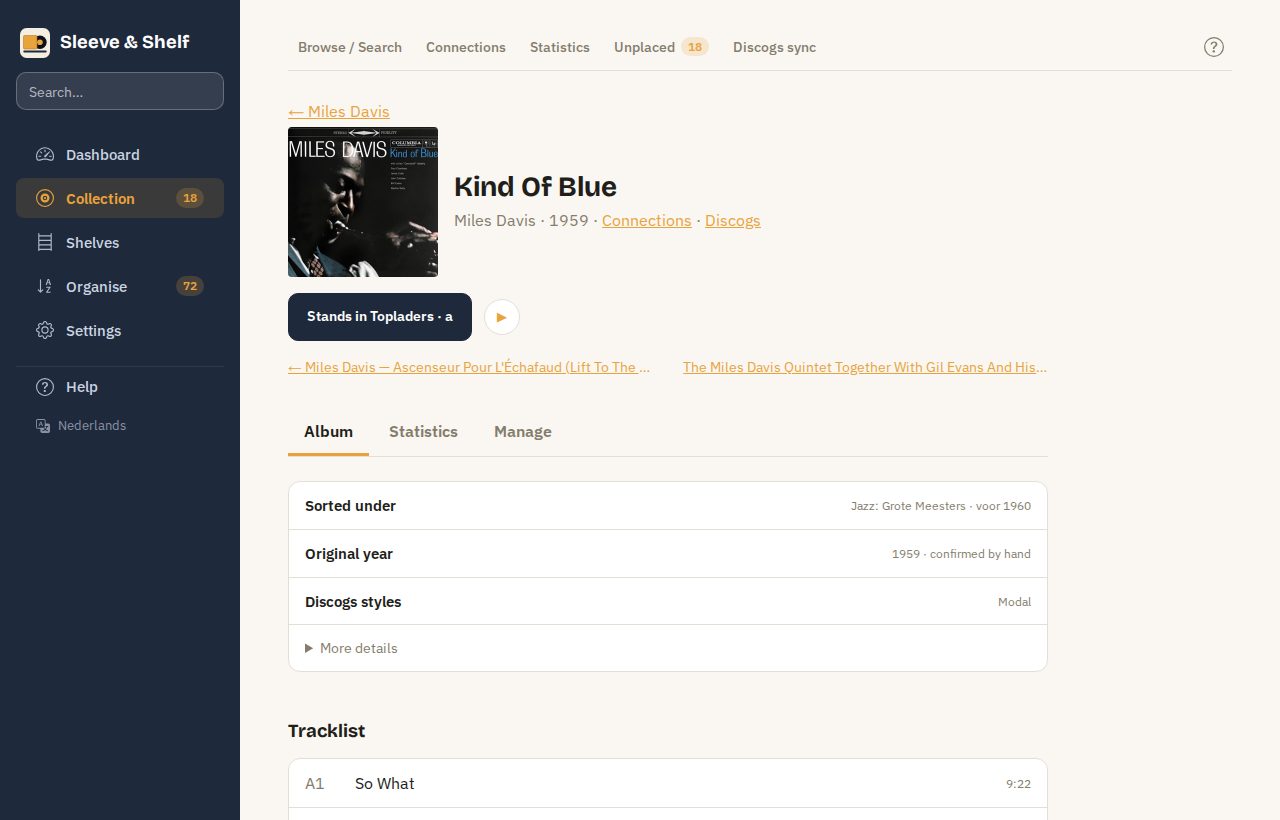
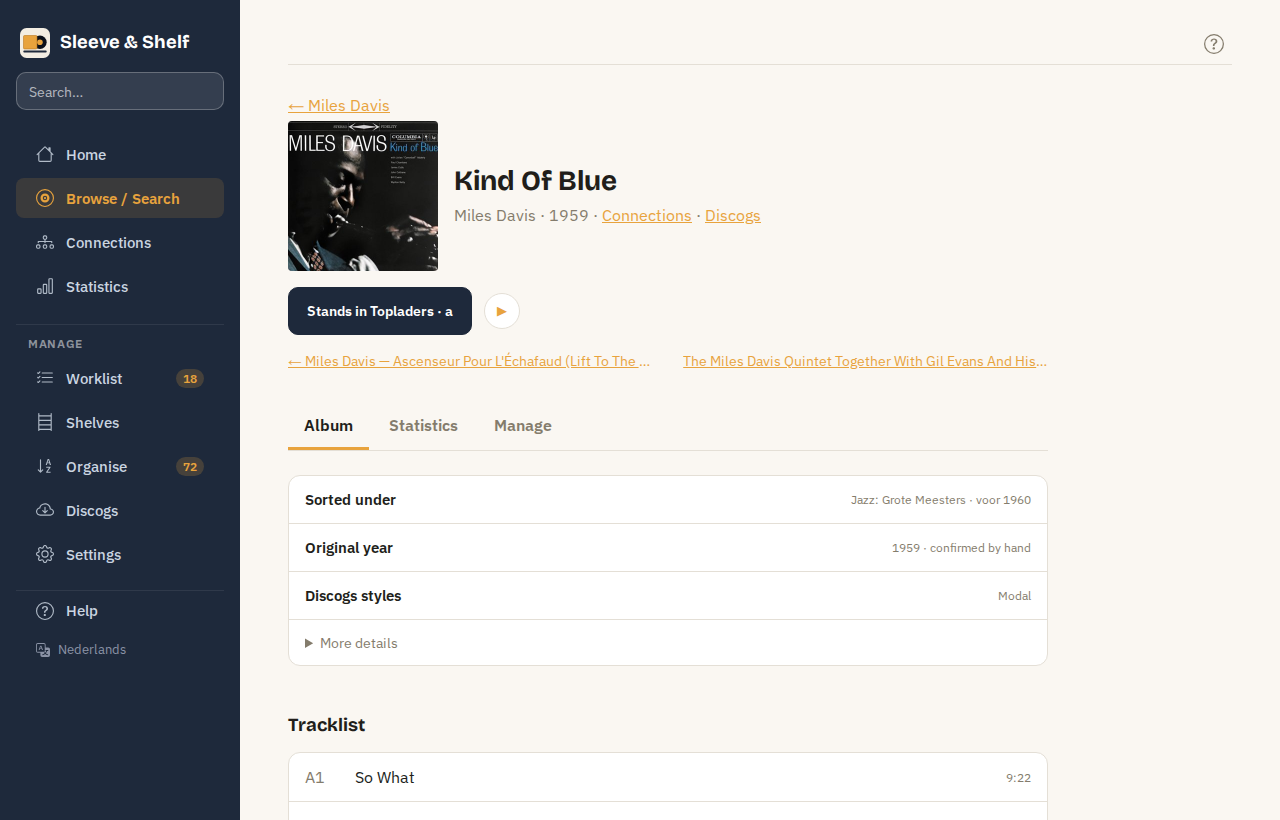
Split the menu into looking things up and managing the collection
The menu now has two blocks: Home, Browse / Search, Connections and Statistics for looking things up and finding something to play, then under a Manage heading the Worklist (the Dashboard and Unplaced albums), Shelves, Organise, Discogs and Settings. Visitors see only the first block. Collection is gone: its screens for looking up became sections of their own, Unplaced moved to the Worklist and the Discogs sync to a section of its own. New icons come from Bootstrap Icons as before, the user guide describes the new menu and shows Home, and its screenshots were taken again.

diff --git a/src/sleeve_shelf/web/templates/base.html b/src/sleeve_shelf/web/templates/base.html
@@ -41,6 +41,10 @@
     <nav id="main-nav" class="ss-nav collapse d-lg-flex">
       {% block nav %}
       {% for section in nav_sections %}
+      {# The upkeep stands apart from looking things up, under a heading of its own. #}
+      {% if section.block == 'manage' and (loop.first or loop.previtem.block != 'manage') %}
+      <div class="ss-nav-block" role="presentation">{{ _('Manage') }}</div>
+      {% endif %}
       {% set count = section_count(section, menu_counts) %}
       <a href="{{ url_for(section.tabs[0].endpoint) }}" class="{{ 'active' if section == nav_section }}">
         <svg class="ss-nav-icon" width="18" height="18" aria-hidden="true"><use href="{{ url_for('static', filename='vendor/menu-icons.svg') }}#{{ section.key }}"></use></svg>

diff --git a/src/sleeve_shelf/web/static/app.css b/src/sleeve_shelf/web/static/app.css
@@ -96,6 +96,8 @@ h2 { font-size: 1.15rem; margin: 0; }
 
 .ss-nav a:hover { color: #fff; }
 .ss-nav a { gap: 12px; }
+/* The upkeep stands apart from looking things up, under a quiet heading. */
+.ss-nav-block { margin: 14px 0 2px; padding: 10px 12px 0; border-top: 1px solid rgba(255, 255, 255, 0.08); color: rgba(255, 255, 255, 0.5); font-size: 0.72rem; font-weight: 600; letter-spacing: 0.06em; text-transform: uppercase; }
 /* Help sits apart from the sections, at the end of the menu. */
 .ss-nav a.ss-nav-help { margin-top: 12px; border-top: 1px solid rgba(255, 255, 255, 0.08); border-radius: 0 0 8px 8px; }
 /* Icon, name, and the count pushed to the end. The icon takes the colour of the text. */

diff --git a/src/sleeve_shelf/web/navigation.py b/src/sleeve_shelf/web/navigation.py
@@ -25,6 +25,11 @@ class Tab:
     help: str | None = None
 
 
+# The two blocks of the menu: looking things up, and keeping the collection up to date.
+LOOK_UP = "look up"
+MANAGE = "manage"
+
+
 @dataclass(frozen=True)
 class Section:
     """A section of the menu.
@@ -35,6 +40,7 @@ class Section:
         tabs: Its tabs.
         other_pages: Pages that belong to the section without having a tab of their own.
         help: Where the user guide explains it.
+        block: The block of the menu it stands in: LOOK_UP or MANAGE.
     """
 
     key: str
@@ -42,24 +48,41 @@ class Section:
     tabs: tuple[Tab, ...]
     other_pages: tuple[str, ...] = ()
     help: str | None = None
+    block: str = LOOK_UP
 
 
+# Looking up and finding something to play, then the upkeep of the collection (decided by Mark
+# 2026-11-07); a visitor sees only the first block.
 SECTIONS = (
     Section("home", _("Home"), (Tab("home.index", _("Home"), ("home",), help="user/#home"),)),
-    Section("overview", _("Dashboard"), (Tab("dashboard.index", _("Dashboard"), ("dashboard",), help="user/#a-typical-round"),)),
     Section(
-        "collection",
-        _("Collection"),
-        (
-            Tab("browse.browse", _("Browse / Search"), ("browse.browse",), help="user/browsing/#browse-and-search"),
-            Tab("connections.index", _("Connections"), ("connections",), help="user/connections/#connections"),
-            Tab("stats.index", _("Statistics"), ("stats",), help="user/connections/#statistics"),
-            Tab("browse.unplaced", _("Unplaced"), ("browse.unplaced",), "unplaced", "user/browsing/#albums-without-a-place"),
-            Tab("discogs.index", _("Discogs sync"), ("discogs", "setup"), "discogs", "user/discogs/"),
-        ),
-        # An album's page is reached from Browse and from the unplaced albums.
+        "browse",
+        _("Browse / Search"),
+        (Tab("browse.browse", _("Browse / Search"), ("browse.browse",), help="user/browsing/#browse-and-search"),),
+        # An album's page is reached from Browse more than from anywhere else.
         other_pages=("albums.detail",),
         help="user/albums-and-artists/#an-albums-page",
+    ),
+    Section(
+        "connections",
+        _("Connections"),
+        (Tab("connections.index", _("Connections"), ("connections",), help="user/connections/#connections"),),
+    ),
+    Section("stats", _("Statistics"), (Tab("stats.index", _("Statistics"), ("stats",), help="user/connections/#statistics"),)),
+    Section(
+        "worklist",
+        _("Worklist"),
+        (
+            Tab("dashboard.index", _("Dashboard"), ("dashboard",), help="user/#a-typical-round"),
+            Tab(
+                "browse.unplaced",
+                _("Unplaced"),
+                ("browse.unplaced", "browse.place_all"),
+                "unplaced",
+                "user/browsing/#albums-without-a-place",
+            ),
+        ),
+        block=MANAGE,
     ),
     Section(
         "shelves",
@@ -72,6 +95,7 @@ SECTIONS = (
             Tab("versions.index", _("Versions"), ("versions",), help="user/shelves/#versions"),
             Tab("storage.index", _("Cabinets"), ("storage", "albums.widths"), "storage", "user/shelves/#cabinets-and-shelves"),
         ),
+        block=MANAGE,
     ),
     Section(
         "sorting",
@@ -83,8 +107,20 @@ SECTIONS = (
             Tab("clusters.index", _("Clusters"), ("clusters",), help="user/sorting/#clusters"),
             Tab("rules.index", _("Rules"), ("rules",), "rules", "user/sorting/#location-rules"),
         ),
+        block=MANAGE,
     ),
-    Section("settings", _("Settings"), (Tab("settings.index", _("Settings"), ("settings",), help="user/settings/#settings"),)),
+    Section(
+        "discogs",
+        _("Discogs"),
+        (Tab("discogs.index", _("Discogs sync"), ("discogs", "setup"), "discogs", "user/discogs/"),),
+        block=MANAGE,
+    ),
+    Section(
+        "settings",
+        _("Settings"),
+        (Tab("settings.index", _("Settings"), ("settings",), help="user/settings/#settings"),),
+        block=MANAGE,
+    ),
 )
 
 

diff --git a/tests/test_web.py b/tests/test_web.py
@@ -398,23 +398,30 @@ def test_menu_has_its_sections_and_tabs_that_count_what_is_waiting(client):
     page = client.get("/browse").text
 
     menu = page[page.index('id="main-nav"'):page.index("</nav>")]
-    sections = ["Home", "Dashboard", "Collection", "Shelves", "Organise", "Settings"]
-    assert [menu.index(f"<span>{name}</span>") for name in sections] == sorted(
-        menu.index(f"<span>{name}</span>") for name in sections
-    )
-    # Six sections, and Help apart at the end.
-    assert menu.count("<a ") == 7 and menu.rindex("<span>Help</span>") > menu.index("<span>Settings</span>")
-    # Browse belongs to Collection: that section is marked, and its screens are the tabs.
-    collection = menu[menu.rindex("<a ", 0, menu.index("<span>Collection</span>")):]
-    assert 'class="active"' in collection[: collection.index("</a>")]
-    # One LP has no place: Collection says so, and so does the tab it is on.
-    assert 'title="Waiting for you">1</span>' in collection[: collection.index("</a>")]
-    tabs = page[page.index('class="ss-section-tabs"'):]
+    looking_up = ["Home", "Browse / Search", "Connections", "Statistics"]
+    upkeep = ["Worklist", "Shelves", "Organise", "Discogs", "Settings"]
+    places = [menu.index(f"<span>{name}</span>") for name in looking_up + upkeep]
+    assert places == sorted(places)
+    # Looking things up first, then the upkeep under a heading of its own, and Help at the end.
+    heading = menu.index('class="ss-nav-block"')
+    assert menu.index("<span>Statistics</span>") < heading < menu.index("<span>Worklist</span>")
+    assert menu.count("<a ") == 10 and menu.rindex("<span>Help</span>") > menu.index("<span>Settings</span>")
+
+    def item(name):
+        start = menu.rindex("<a ", 0, menu.index(f"<span>{name}</span>"))
+        return menu[start : menu.index("</a>", start)]
+
+    # Browse is marked, and a section of one screen has no tabs.
+    assert 'class="active"' in item("Browse / Search")
+    assert 'class="ss-section-tabs"' not in page
+    # One LP has no place: the Worklist says so, and so does its tab.
+    assert 'title="Waiting for you">1</span>' in item("Worklist")
+    unplaced_page = client.get("/unplaced").text
+    tabs = unplaced_page[unplaced_page.index('class="ss-section-tabs"'):]
     tabs = tabs[: tabs.index("</nav>")]
-    assert ["Browse / Search" in tabs, "Unplaced" in tabs, "Discogs sync" in tabs] == [True] * 3
+    assert "Dashboard" in tabs and "Unplaced" in tabs
     unplaced = tabs[tabs.index("Unplaced"):]
     assert '<span class="ss-nav-count">1</span>' in unplaced[: unplaced.index("</a>")]
-    assert 'aria-current="page"' in tabs[: tabs.index("Unplaced")]
 
     # The other sections show their own screens as tabs.
     assert "Cabinets" in client.get("/layout/").text.split('class="ss-section-tabs"')[1]

diff --git a/tests/test_access.py b/tests/test_access.py
@@ -74,10 +74,14 @@ def test_a_visitor_may_look_the_collection_up_and_nothing_more(app):
     assert visitor.post("/settings/password", data={"action": "remove"}).status_code == 403
     assert has_password(app.config["DATA_DIR"])
 
-    # What a visitor sees: Browse and Help in the menu, no actions on the pages.
+    # What a visitor sees: the block for looking things up and Help in the menu, without the
+    # upkeep or its heading, and no actions on the pages.
     browse = visitor.get("/browse").text
     menu = browse[browse.index('id="main-nav"'):browse.index("</nav>")]
-    assert "<span>Collection</span>" in menu and "<span>Shelves</span>" not in menu and "Log in" in menu
+    for name in ("Home", "Browse / Search", "Connections", "Statistics"):
+        assert f"<span>{name}</span>" in menu, name
+    assert "<span>Worklist</span>" not in menu and "<span>Shelves</span>" not in menu and "Log in" in menu
+    assert "ss-nav-block" not in menu
     assert "/unplaced" not in browse and "ss-nav-count" not in browse
     album = visitor.get("/albums/1").text
     assert 'id="listen"' in album and "/move/" not in album and "Measured width" not in album

diff --git a/docs-site/take_screenshots.py b/docs-site/take_screenshots.py
@@ -123,6 +123,7 @@ def main() -> None:
                     " localStorage.setItem('sleeve-shelf-browse-view', 'grid'); } catch (e) {}"
                 )
                 page = context.new_page()
+                _shoot(page, taken, "/", "home")
                 _shoot(page, taken, "/dashboard/", "dashboard")
                 _shoot(page, taken, "/browse", "browse")
                 _shoot(page, taken, f"/albums/{album.id}", "album")

diff --git a/docs/requirements.md b/docs/requirements.md
@@ -91,7 +91,7 @@ Everything the app needs to propose and maintain a layout itself. Builds on the 
 - Single-user application: one owner, who can change everything. **Visitors** may look the collection up, nothing more (see below)
 - **Visitors and the owner's login** (decided and built 2026-10-16). A visitor without a login can search and browse the collection, open an album's and an artist's page to read them, listen (Deezer previews, Discogs videos), and read the user guide. Everything else — every change, and every other screen — needs the owner's login:
   - **Closed unless listed**: one list in the app names what a visitor may open, and only to read (GET): Home and Statistics (2026-11-07), Browse/Search, Connections (2026-10-26), the album and artist pages, the previews, the help, covers, and the app's own files. Any other screen, and anything added later, asks for the login; a visitor's change is refused
-  - **What a visitor sees**: the menu holds only Home (2026-11-07), Collection (Browse / Search, Connections since 2026-10-26, and Statistics since 2026-11-07) and Help; the album and artist pages leave out their actions (moving, location rules, width, own picture, *Put it there*, *Not this album*). Layout, Showcase, and the other screens are the owner's only
+  - **What a visitor sees**: the menu holds only the block for looking things up — Home, Browse / Search, Connections (since 2026-10-26) and Statistics (since 2026-11-07) — and Help; the album and artist pages leave out their actions (moving, location rules, width, own picture, *Put it there*, *Not this album*). Layout, Showcase, and the other screens are the owner's only
   - **Listening by a visitor is allowed**, though the first listen to an album keeps what Deezer found in `listening.json` — the only thing a visitor writes, and harmless
   - **The login**: a page asking for a password only, as there is one owner. The password is stored hashed; it is set with a command (`set-password`) and changed under Settings. Logged in, a device stays logged in until the owner logs out. After a few failed attempts each next attempt waits longer
   - **Without a password the app stays open**, everyone being the owner, as before; Settings says so. Setting a password is what makes visitors visitors
@@ -532,16 +532,20 @@ The first thing a new installation does (Phase 1a): seed the collection and its 
 
 ### Main navigation (after the wizard)
 
-The menu has five sections (decided 2026-10-14): what is done daily on top, what is rarely touched at the bottom. A section opens on its first screen, and its screens are tabs above the page — on a phone they scroll sideways — so the menu itself stays five lines. On a phone the tabs scroll sideways; the current tab is brought into view and an edge fades where more tabs are out of sight (2026-10-16). Each section has an icon before its name (decided 2026-10-15): a speedometer for Dashboard, a record for Collection, a bookshelf for Shelves, an A–Z arrow for Sorting, a gear for Settings — from Bootstrap Icons, kept with the app. The name always stays; the tabs have no icons. A tab carries a short name, since the menu names the section and the page has its fuller title: Unplaced, Proposal, Cabinets, Families, Rules (decided 2026-10-15). A detail page belongs to the section it is reached from: an artist to Sorting, an album to Collection. All screens are built, except where a later phase is marked.
+The menu has two blocks (decided by Mark 2026-11-07): looking things up and finding something to play first, then the upkeep of the collection under a heading of its own, **Manage** (*Beheren*). A visitor sees only the first block. Before, it had five sections (decided 2026-10-14) — Dashboard, Collection, Shelves, Organise and Settings — ordered from what is done daily to what is rarely touched, which mixed the two: Collection held Browse beside Unplaced and the Discogs sync, and the app opened on the Dashboard. A section opens on its first screen, and its screens are tabs above the page; a section of one screen has none. On a phone the tabs scroll sideways; the current tab is brought into view and an edge fades where more tabs are out of sight (2026-10-16). Each section has an icon before its name (decided 2026-10-15; those of 2026-11-07 chosen without asking): a house for Home, a record for Browse / Search, a diagram for Connections, a bar chart for Statistics, a list with checks for the Worklist, a bookshelf for Shelves, an A–Z arrow for Organise, a cloud with an arrow for Discogs, a gear for Settings — from Bootstrap Icons, kept with the app. The name always stays; the tabs have no icons. A tab carries a short name, since the menu names the section and the page has its fuller title: Unplaced, Proposal, Cabinets, Families, Rules (decided 2026-10-15). A detail page belongs to the section it is reached from: an artist to Organise, an album to Browse / Search. All screens are built, except where a later phase is marked.
+
+Looking things up:
 
 - **Home** (decided by Mark 2026-11-07) — where the app opens, for the owner and visitors: looking up and something to play (see Home screen)
-- **Dashboard** — overview and open confirmations (see below)
-- **Collection** — the records themselves
-  - **Browse / Search** — crate-digging view of the collection, following the actual physical shelf order; search by artist and album (see Phase 1)
-  - **Statistics** (2026-10-30, decided by Mark) — who and what recurs across the collection (see Statistics screen)
-  - **Connections** — how the artists are tied together, as a network to move around in; around one artist, or the whole collection (see Connections screen, Phase 3)
+- **Browse / Search** — crate-digging view of the collection, following the actual physical shelf order; search by artist, album and song (see Phase 1)
+- **Connections** — how the artists are tied together, as a network to move around in; around one artist, or the whole collection (see Connections screen, Phase 3)
+- **Statistics** (2026-10-30, decided by Mark) — who and what recurs across the collection (see Statistics screen)
+
+Manage:
+
+- **Worklist** (*Werklijst*, 2026-11-07) — what waits for the owner
+  - **Dashboard** — overview and open confirmations (see below)
   - **Unplaced albums** — albums without a spot on a shelf (see Initial load), so they can be resolved rather than silently dropped. Each LP shows its suggested spot — the shelf, the albums it would stand between, and whether it fits — with a button to put it there; after that the page says where it now stands, with a link. An LP without a spot says why: the artist has no cluster yet, or nothing stands where it could go (see Sorting logic §4)
-  - **Discogs sync** — the Discogs screen: sync or import the collection, fetch styles and original years, confirm proposed matches (see below). Loading a layout workbook (see Initial load) is reached from the bottom of this screen
 - **Shelves** — the physical cabinets and what stands in them
   - **Layout** — core screen (see below)
   - **Move** — an album, artist, family or whole cluster to another shelf, or to where it belongs, with what changes shown first (see Move screen, below)
@@ -554,9 +558,11 @@ The menu has five sections (decided 2026-10-14): what is done daily on top, what
   - **Artist families** — the alias groups: accept or turn down suggested families, and manage them by hand (see below)
   - **Clusters** — the clusters in their order: reorder, rename, merge, and re-point styles (see below)
   - **Location rules** — bind a cluster, a family, an artist, or an album to a cabinet (see below)
+- **Discogs** (its own section since 2026-11-07)
+  - **Discogs sync** — the Discogs screen: sync or import the collection, fetch styles and original years, confirm proposed matches (see below). Loading a layout workbook (see Initial load) is reached from the bottom of this screen
 - **Settings** — edit `config.yaml`: the width-estimation constants, whether a bonus-disc bundle counts as vinyl, and the Discogs API token (masked, with a replace action); also the light/dark switch and the app's version (see below)
 
-**Help** (decided 2026-10-16): the documentation site (`docs-site/`, user guide and developer guide) is part of the app, under `/help/`. The Docker image builds it with Zensical and carries it, so the help belongs to the version that runs and works offline; without a built site — a local run — the help comes from GitHub Pages. *Help* at the end of the menu opens the user guide, and every screen has a **?** beside its tabs that opens the part of the user guide about that screen (Layout → *Layout*, Families → *Artist families*, an artist's page → *An artist's page*, …). Help opens in a window of its own, so the place in the app is kept. **Offline** (asked for by Mark 2026-11-04): the help fetches nothing from elsewhere — Mermaid and GLightbox come with the site and it uses the system's fonts instead of Inter from Google Fonts — so it works without a connection, and only the repository's figures in its header are asked of GitHub; its policy allows no image from elsewhere either (2026-11-05). **Screenshots** (asked for by Mark 2026-11-04): the user guide shows six screens — Dashboard, a shelf as a grid, an album's page, the connections of one artist, Layout and placing all at once — taken from Mark's own collection by a script, in English and the light theme (the collection, chosen without asking).
+**Help** (decided 2026-10-16): the documentation site (`docs-site/`, user guide and developer guide) is part of the app, under `/help/`. The Docker image builds it with Zensical and carries it, so the help belongs to the version that runs and works offline; without a built site — a local run — the help comes from GitHub Pages. *Help* at the end of the menu opens the user guide, and every screen has a **?** beside its tabs that opens the part of the user guide about that screen (Layout → *Layout*, Families → *Artist families*, an artist's page → *An artist's page*, …). Help opens in a window of its own, so the place in the app is kept. **Offline** (asked for by Mark 2026-11-04): the help fetches nothing from elsewhere — Mermaid and GLightbox come with the site and it uses the system's fonts instead of Inter from Google Fonts — so it works without a connection, and only the repository's figures in its header are asked of GitHub; its policy allows no image from elsewhere either (2026-11-05). **Screenshots** (asked for by Mark 2026-11-04): the user guide shows seven screens — Home (2026-11-07), the Dashboard, a shelf as a grid, an album's page, the connections of one artist, Layout and placing all at once — taken from Mark's own collection by a script, in English and the light theme (the collection, chosen without asking).
 
 **The end of the menu** (2026-10-18): below Help, in smaller type, **Log in** or **Log out** (only once a password is set) and the other language, by its own name (*Nederlands*, *English*). Each has its icon, as the sections and Help do — logging in had none, which was an oversight rather than a choice.
 
@@ -844,7 +850,8 @@ Phase 2 is closed (see Phase 2). What is left is work that waits for measurement
 
 ### Chosen without asking, not yet looked at
 
-- **Home** (2026-11-07), the split decided by Mark, what the page holds chosen without asking: six recently added albums; the search field on the page in place of the menu's, as it is what Home is used for at the cabinet; no title on the page; *From fifty years ago* as a section of its own rather than under *From the shelf today*; Home is a section of the menu of its own, until the menu is split in two blocks
+- **Home** (2026-11-07), the split decided by Mark, what the page holds chosen without asking: six recently added albums; the search field on the page in place of the menu's, as it is what Home is used for at the cabinet; no title on the page; *From fifty years ago* as a section of its own rather than under *From the shelf today*
+- **The menu in two blocks** (2026-11-07), the split decided by Mark, the details chosen without asking: only the upkeep has a heading, *Manage*, as the first block is what the menu always showed first; Settings stands in that block, at its end; Browse / Search, Connections and Statistics are sections of their own, without tabs, rather than tabs of one section; the Dashboard keeps its name as the first tab of the Worklist; the Discogs sync is a section of its own, named Discogs
 
 - **Choosing another spot** (2026-11-05), Mark's request, the details chosen without asking: two other spots at most, only for an artist without a confirmed cluster (or one from connections), and only clusters the styles point to; confirming the cluster is ticked by default; on a family the other spot is worked out as if every artist of the family were in that cluster, while only the album's own artist is confirmed; next to an album the Move screen offers the cluster only for a single album, not for an artist, family or cluster that moves
 

diff --git a/docs-site/docs/user/index.md b/docs-site/docs/user/index.md
@@ -4,7 +4,9 @@ Sleeve & Shelf keeps track of where every record in your collection stands, and 
 
 ## 🏠 Home
 
-The app opens on **Home**: a search field for an artist, album or song, and something to play.
+![Home: a search field, an album from the shelf today, and what came out fifty years ago](../images/screens/home.png)
+
+The app opens on **Home**: a search field for an artist, album or song, and something to play. Typing shows the results in its place; emptying the field brings Home back.
 
 - **From the shelf today** — one album from your shelves, the same all day; **Another one** picks a different one.
 - **From 50 years ago** — albums from your collection that came out fifty years ago this year.
@@ -18,13 +20,19 @@ When something waits for a decision, a line at the bottom says how many things, 
 
 Each section of the menu opens on its first screen; the other screens of a section are tabs at the top of the page.
 
+The menu has two blocks. The first is for looking things up and finding something to play; the second, under **Manage**, is for keeping the collection up to date. Visitors see only the first.
+
 | Section | Screens | What you do there |
 | --- | --- | --- |
 | **Home** | Home | Search, and find something to play |
-| **Dashboard** | Dashboard | See what is waiting for you, and the steps towards a new layout |
-| **Collection** | Browse / Search · Connections · Statistics · Unplaced · Discogs sync | Look up records and how their artists hang together, place the ones without a spot, bring the collection in from Discogs |
+| **Browse / Search** | Browse / Search | Walk along your shelves, or search by artist, album or song |
+| **Connections** | Connections | See how the artists hang together |
+| **Statistics** | Statistics | See who and what keeps coming back |
+| *Manage* | | |
+| **Worklist** | Dashboard · Unplaced | See what is waiting for you and the steps towards a new layout; place the albums without a spot |
 | **Shelves** | Layout · Move · Proposal · Showcase · Versions · Cabinets | Rearrange the shelves, move an album, artist, family or cluster at once, let the app propose a layout, manage top-loaders, go back to an earlier layout, describe your cabinets |
 | **Organise** | Artists · Families · Clusters · Rules | Decide what belongs together and where: an artist's cluster and start year, which artists stand together, the order of the clusters, and fixed places |
+| **Discogs** | Discogs sync | Bring the collection in from Discogs, and fetch styles, years and covers |
 | **Settings** | Settings | Width estimates, the Discogs token, light or dark |
 
 A number next to a section or tab tells you how many things wait there for a decision — matches to confirm, suggested families, albums without a place, shelves that are too full.

diff --git a/CLAUDE.md b/CLAUDE.md
@@ -63,7 +63,7 @@ Strict separation of concerns; keep it that way. `tests/test_architecture.py` ch
 | `src/sleeve_shelf/fetching/` | What comes from outside: `discogs_import` (a sync or an uploaded export, matches, albums that left Discogs), `enrichment` (fetching from Discogs and applying it), `covers` (images kept in the data directory), `listening`, `overview` (what the Discogs screen says). |
 | `src/sleeve_shelf/insights/` | What the collection tells: `ties` (the kinds of tie and what Discogs lists, no storage), `network` (the network and the way between two artists, no storage), `connections` (both from the collection as it stands), `collection_stats` (the figures on an artist's and an album's page and the Statistics screen). |
 | `src/sleeve_shelf/*.py` | `config`, `access` (the owner's password), `cli` (the command line). The package's own `__init__.py` imports nothing, so a service never loads Flask. |
-| `src/sleeve_shelf/web/` | Flask blueprints, templates, static files; `web/app.py` builds the app (`create_app`). One blueprint per screen. The menu's five sections and their tabs are declared in `web/navigation.py`; a new screen gets its tab there. |
+| `src/sleeve_shelf/web/` | Flask blueprints, templates, static files; `web/app.py` builds the app (`create_app`). One blueprint per screen. The menu's sections — in two blocks, looking things up and managing the collection — and their tabs are declared in `web/navigation.py`; a new screen gets its tab there. |
 | `src/sleeve_shelf/web/pwa.py`, `web/static/icons/` | The web app manifest and the icons for installing the app on a phone. No service worker, on purpose. |
 | `docker/` | Dockerfile and Compose examples; `.github/workflows/docker.yml` builds and publishes the image, after `.github/workflows/security.yml` has checked the runtime packages (`uv export --no-dev`) for HIGH and CRITICAL vulnerabilities with a fix. The workflow also scans the built image before pushing it (`.github/actions/install-trivy` installs Trivy for both). Trivy runs in an empty folder so no `.trivyignore` or `trivy.yaml` from a pull request is read; keep it that way. All stages of the Dockerfile use the same `python:` image (the virtual environment works only with the Python it was made for); a new Python version is moved by hand there and in `.python-version` together. The Compose examples run the container read-only (only `/data` and `/tmp` writable): anything new the app writes belongs in the data directory. |
 

diff --git a/docs-site/docs/user/browsing.md b/docs-site/docs/user/browsing.md
@@ -18,7 +18,7 @@ Every word you type has to be in the artist and title, or in the artist, title a
 
 ![Placing all at once: each album at its suggested spot](../images/screens/place-all.png)
 
-**Unplaced** lists the LPs that stand on no shelf yet — new purchases, and albums a proposal had no room for. For each one the app suggests a spot in your shelves as they stand now: the shelf, the two albums it would go between, and whether it fits. *Put it there* places it; nothing else moves.
+**Unplaced** (under Worklist) lists the LPs that stand on no shelf yet — new purchases, and albums a proposal had no room for. For each one the app suggests a spot in your shelves as they stand now: the shelf, the two albums it would go between, and whether it fits. *Put it there* places it; nothing else moves.
 
 Not the spot you had in mind? When the artist has no cluster of its own yet, the spot only follows what its styles point to, and the row says so. **Other spots** leads to the album's page, which offers a spot in each of the next clusters its styles point to — each with *Put it there* and a ticked **Also put … in …** that gives the artist that cluster. **Somewhere else…** opens Move with the album chosen, to put it right before or after any album you pick.
 
